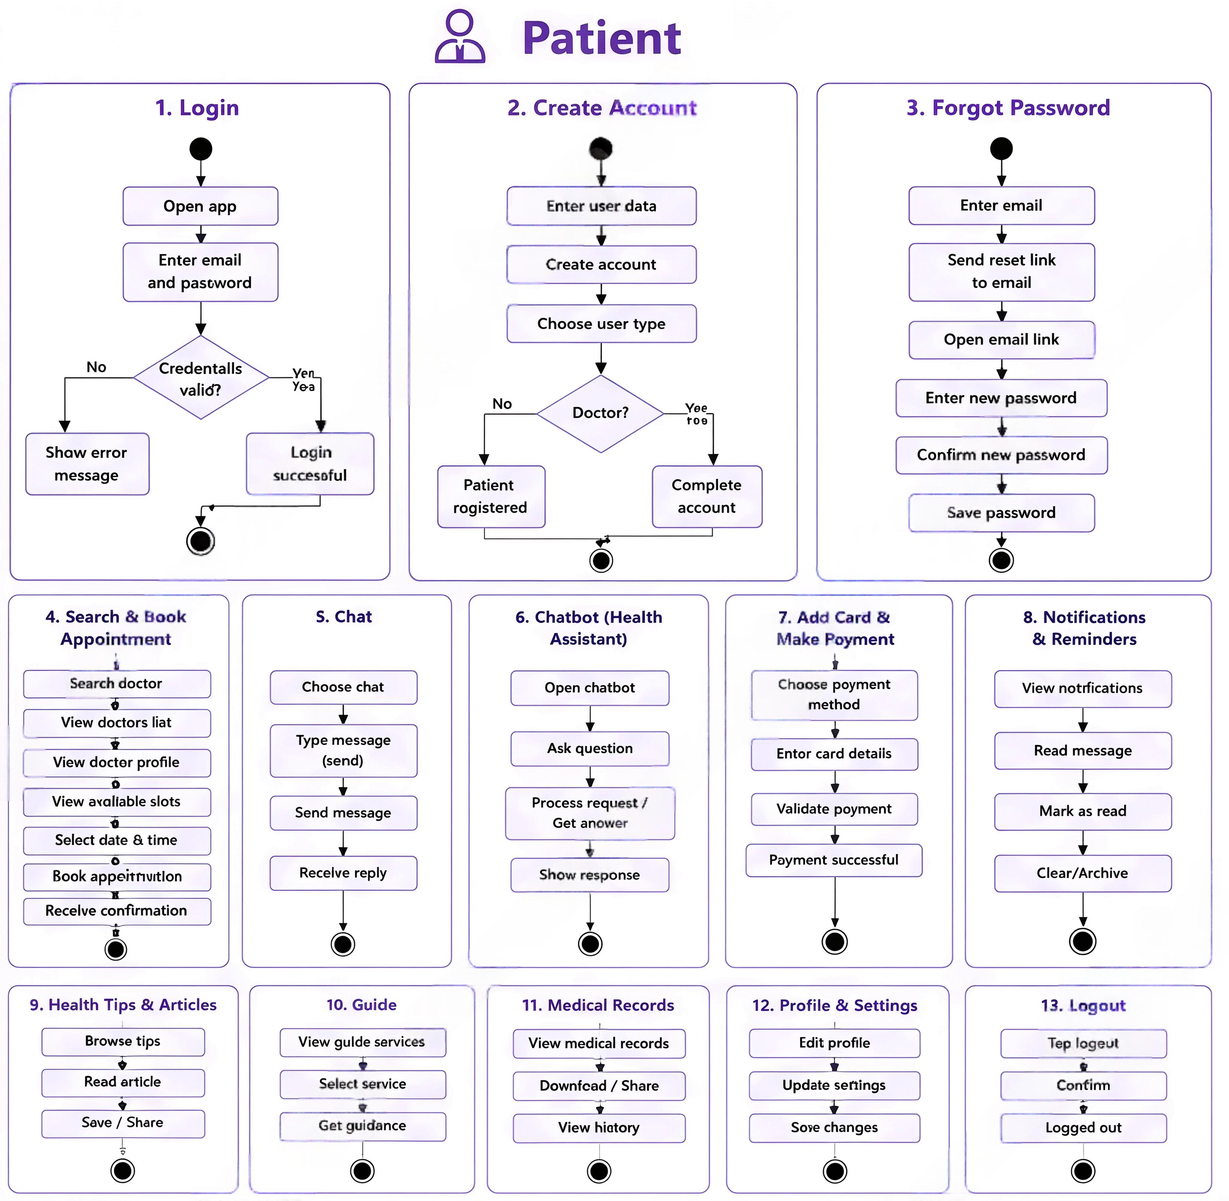
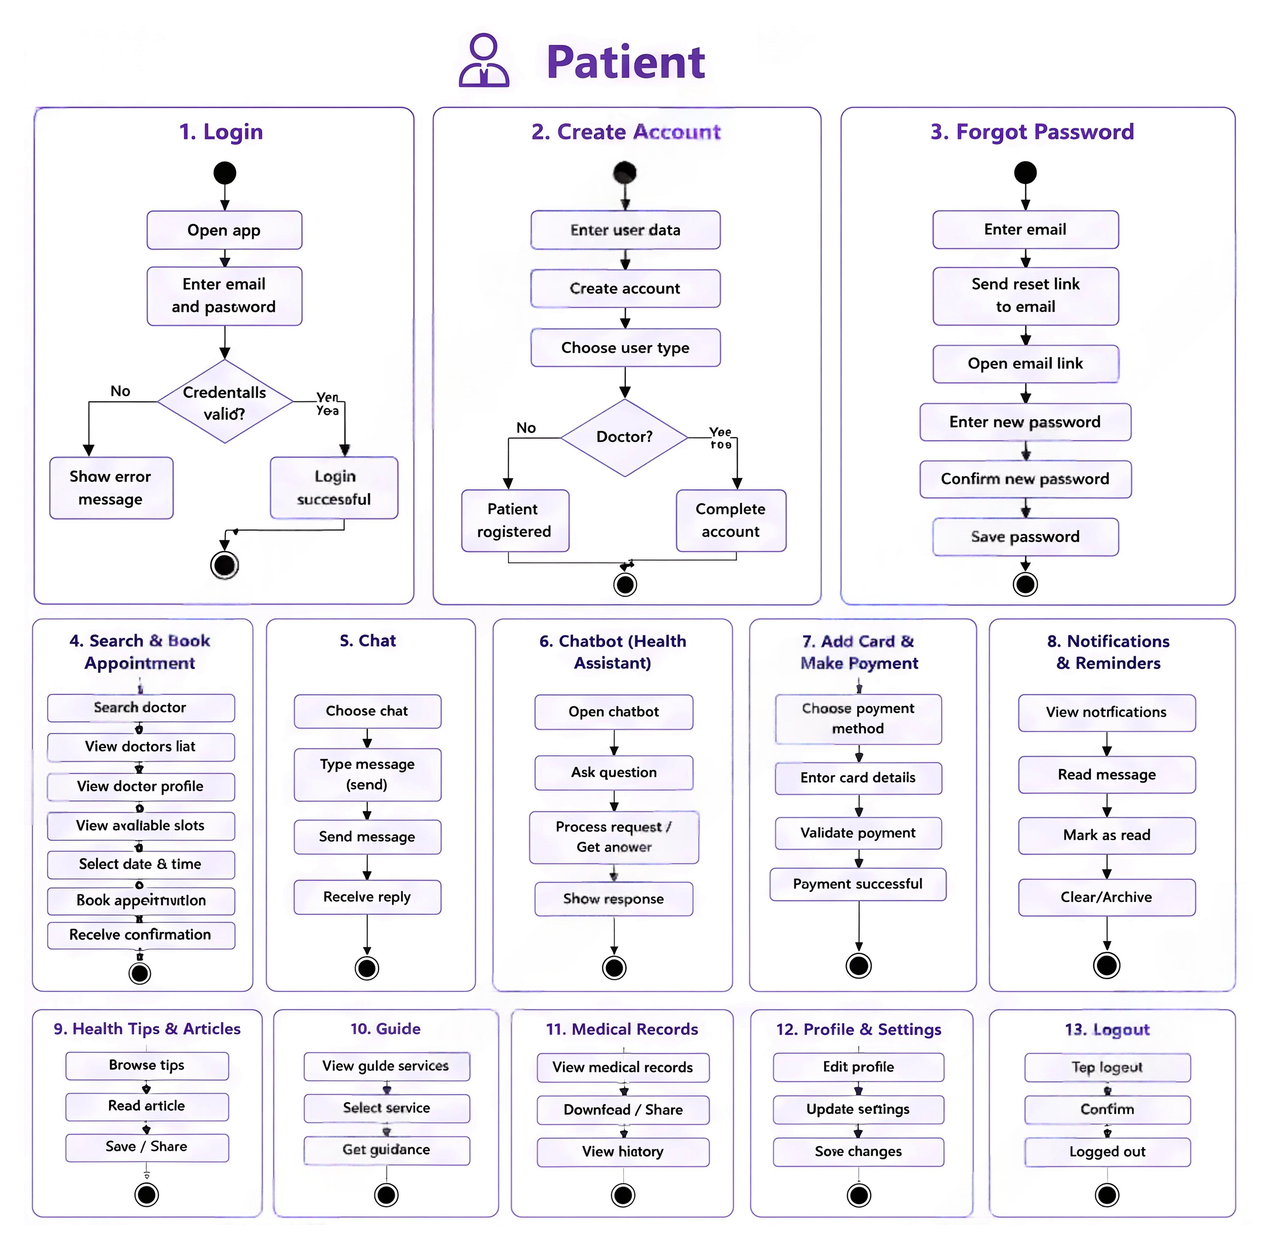
style: render all DFD and UML diagrams on crisp solid white background

Changed region(s): [[0.0, 0.0, 0.9894, 1.0], [0.2474, 0.4929, 0.3092, 0.5237], [0.7111, 0.2157, 0.7421, 0.2465]]

diff --git a/README.md b/README.md
@@ -82,7 +82,13 @@ The application adheres strictly to **Feature-First Clean Architecture**, enforc
 Illustrates system interactions between external entities (**Patient**, **Doctor**, **Pharmacy**, **Admin**) and the central AVO platform runtime.
 
 <div align="center">
-  <img src="avo_website/assets/diagrams/dfd_level_0.png" alt="DFD Level 0 Diagram" width="85%" />
+  <table style="background-color: #ffffff; border-radius: 10px; padding: 12px; border: 1px solid #e1e4e8;">
+    <tr>
+      <td align="center" style="background-color: #ffffff;">
+        <img src="avo_website/assets/diagrams/dfd_level_0.png" alt="DFD Level 0 Diagram" width="85%" />
+      </td>
+    </tr>
+  </table>
 </div>
 
 ---
@@ -91,7 +97,13 @@ Illustrates system interactions between external entities (**Patient**, **Doctor
 Details internal subsystem processes, data stores, and event streams for authentication, appointment scheduling, OCR prescription parsing, and billing.
 
 <div align="center">
-  <img src="avo_website/assets/diagrams/dfd_level_1.png" alt="DFD Level 1 Diagram" width="85%" />
+  <table style="background-color: #ffffff; border-radius: 10px; padding: 12px; border: 1px solid #e1e4e8;">
+    <tr>
+      <td align="center" style="background-color: #ffffff;">
+        <img src="avo_website/assets/diagrams/dfd_level_1.png" alt="DFD Level 1 Diagram" width="85%" />
+      </td>
+    </tr>
+  </table>
 </div>
 
 ---
@@ -100,7 +112,13 @@ Details internal subsystem processes, data stores, and event streams for authent
 Maps out runtime modular components, microservices, local storage partitions, and third-party cloud integrations.
 
 <div align="center">
-  <img src="avo_website/assets/diagrams/component_diagram.png" alt="Component Diagram" width="85%" />
+  <table style="background-color: #ffffff; border-radius: 10px; padding: 12px; border: 1px solid #e1e4e8;">
+    <tr>
+      <td align="center" style="background-color: #ffffff;">
+        <img src="avo_website/assets/diagrams/component_diagram.png" alt="Component Diagram" width="85%" />
+      </td>
+    </tr>
+  </table>
 </div>
 
 ---
@@ -109,7 +127,13 @@ Maps out runtime modular components, microservices, local storage partitions, an
 Class definitions, inheritance structures, model attributes, and business methods.
 
 <div align="center">
-  <img src="avo_website/assets/diagrams/class_diagram.png" alt="Class Diagram" width="85%" />
+  <table style="background-color: #ffffff; border-radius: 10px; padding: 12px; border: 1px solid #e1e4e8;">
+    <tr>
+      <td align="center" style="background-color: #ffffff;">
+        <img src="avo_website/assets/diagrams/class_diagram.png" alt="Class Diagram" width="85%" />
+      </td>
+    </tr>
+  </table>
 </div>
 
 ---
@@ -118,7 +142,13 @@ Class definitions, inheritance structures, model attributes, and business method
 Permission matrix and functional boundaries for Patient, Doctor, Pharmacist, and Administrator actors.
 
 <div align="center">
-  <img src="avo_website/assets/diagrams/use_case.png" alt="Use Case Diagram" width="85%" />
+  <table style="background-color: #ffffff; border-radius: 10px; padding: 12px; border: 1px solid #e1e4e8;">
+    <tr>
+      <td align="center" style="background-color: #ffffff;">
+        <img src="avo_website/assets/diagrams/use_case.png" alt="Use Case Diagram" width="85%" />
+      </td>
+    </tr>
+  </table>
 </div>
 
 ---
